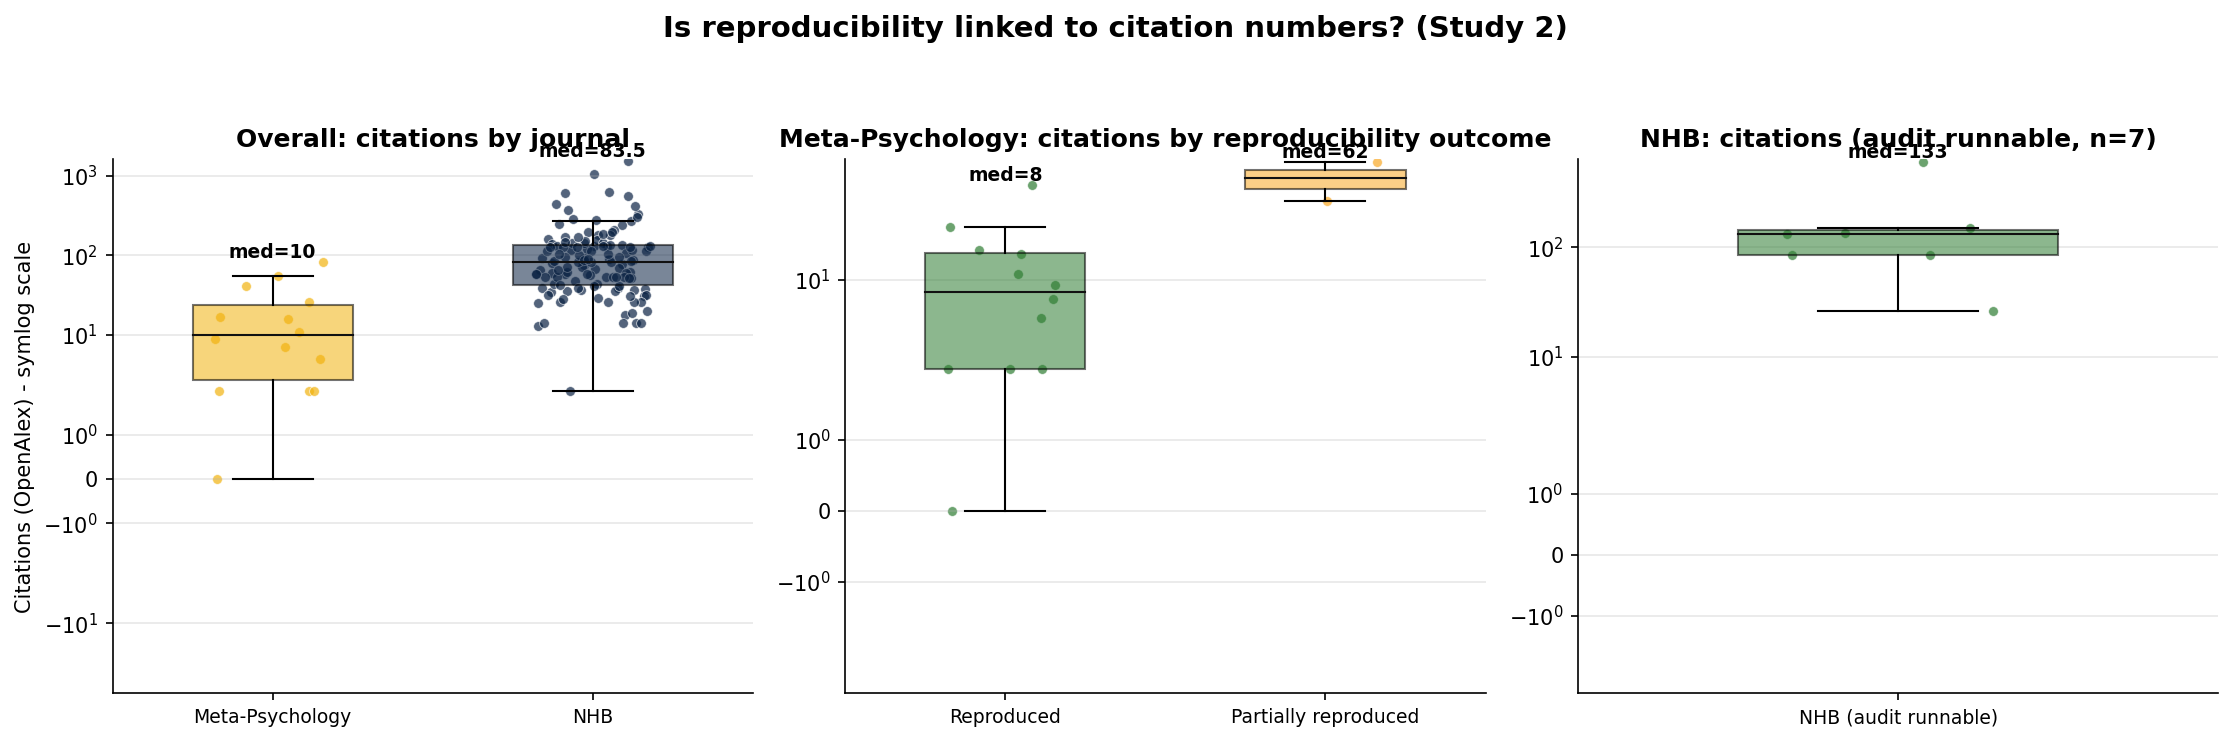
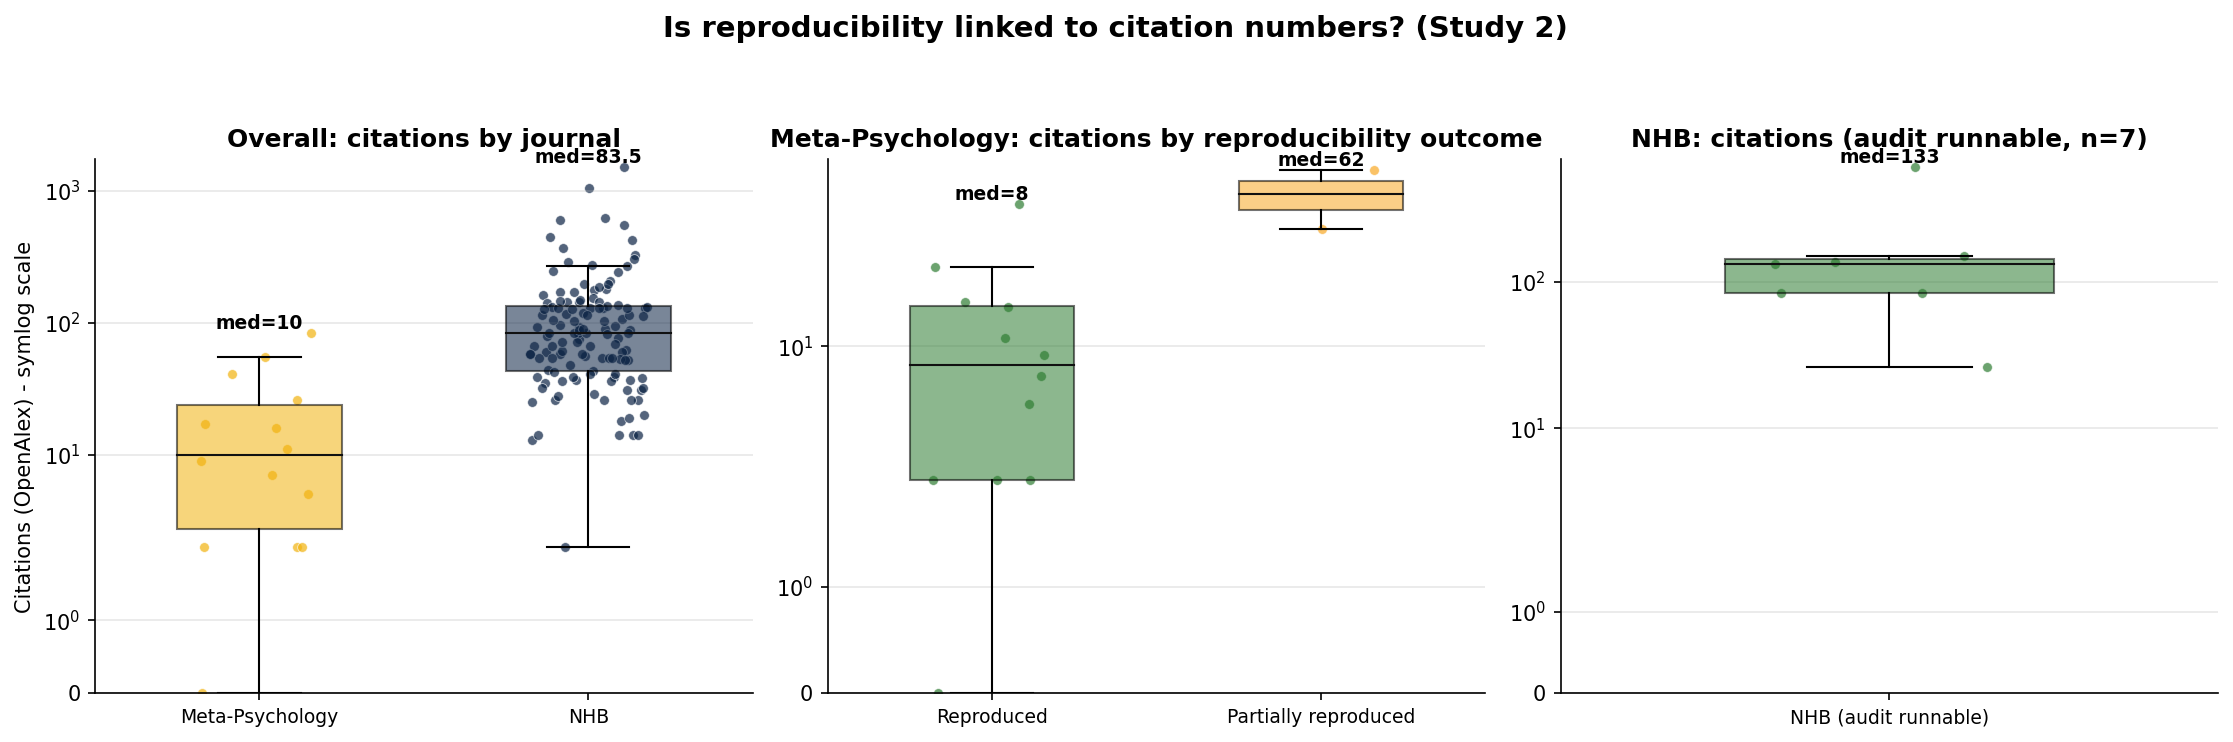
Fig5: y-axis from 0 with headroom, drop no-availability group, fix median/title overlap; Fig2: single tall stacked NHB columns with y-ticks every 10; update Fig2 caption

diff --git a/MetaPsych_vs_NHB_Reproducibility_Comparison_APA7.html b/MetaPsych_vs_NHB_Reproducibility_Comparison_APA7.html
@@ -194,7 +194,7 @@ body { position:relative; }
 <h3>Open data availability</h3>
 <p>Among 14 audited <i>Meta-Psychology</i> studies, 6 carried explicit open-data badges; the remaining studies were simulations for which raw data are not applicable. Among the 128 audited <i>NHB</i> articles, 72 (56%) exposed a direct, machine-downloadable data/code link, 55 (43%) supplied an availability statement without a direct link, and 1 gave no statement.</p>
 <div class="figure"><img src="fig2_open_data.png" alt="Open data availability">
-<p class="figcap"><b>Figure 2.</b> Open data availability by journal, shown as the share (percentage) of audited studies within each journal, with the exact count in parentheses at each bar tip &mdash; this makes the two journals comparable despite the small <i>Meta-Psychology</i> corpus. Note that several <i>Meta-Psychology</i> studies are simulations in which raw data are not applicable, so no-data should not be read as a transparency failure.</p></div>
+<p class="figcap"><b>Figure 2.</b> Open data availability by journal, with one square per study stacked by category (for <i>Meta-Psychology</i>: open data present vs not applicable; for <i>NHB</i>: direct data/code link, statement only, or no availability). Note that several <i>Meta-Psychology</i> studies are simulations in which raw data are not applicable, so no-data should not be read as a transparency failure.</p></div>
 
 <h3>For how many did the check work, and how many had issues or big problems?</h3>
 <p>For <i>Meta-Psychology</i>, where a genuine computational reproduction was possible, 12 studies reproduced near-exactly and 2 reproduced only partially; 0 did not reproduce and 0 hit technical blockers. These are genuinely re-ran analyses, so &ldquo;reproduced&rdquo; is a strong certification; for these <i>Meta-Psychology</i> studies the data and code were available, so any failure falls under the &ldquo;different numbers come out&rdquo; category (partially reproduced or not reproduced) or a technical blocker, rather than &ldquo;data could not be shared.&rdquo; For <i>NHB</i>, the audit established data/code availability rather than re-execution: only the 79 articles with a direct, machine-downloadable link could in principle be re-run, whereas 55 offered only a statement and 1 no availability at all &mdash; these 49 &ldquo;data could not be shared&rdquo; availability barriers could not be re-run (Table&nbsp;1). Figure&nbsp;3 therefore plots, for each journal, only the studies on which the audit could actually be run: for <i>Meta-Psychology</i> all 14 re-executions are shown and split by outcome, and for <i>NHB</i> the 79 runnable studies are shown.</p>

diff --git a/_build_figs_v2.py b/_build_figs_v2.py
@@ -43,7 +43,12 @@ OK="#2e7d32"; PAR="#f9a825"; BAD="#c62828"; TECH="#ef6c00"
 
 # ---- unit-chart helper: one rectangle per study, stacked per category, WITH x/y axes ----
 import matplotlib.patches as mpatches
-def unit_chart(ax, cats, vals, colors, square=0.7, per_col_max=14, gap=0.12):
+def _nice_step(v):
+    for s in (1,2,5,10,20,25,50,100):
+        if v/s <= 8:
+            return s
+    return 10
+def unit_chart(ax, cats, vals, colors, square=0.8, per_col_max=14, gap=0.12):
     # each category = a column of one rectangle per study, counted on the y-axis
     for k, n in enumerate(vals):
         n = int(n)
@@ -55,11 +60,13 @@ def unit_chart(ax, cats, vals, colors, square=0.7, per_col_max=14, gap=0.12):
             rect = mpatches.Rectangle((xx, yy), square, square, facecolor=colors[k],
                                       edgecolor="white", linewidth=0.6, alpha=0.92)
             ax.add_patch(rect)
-    maxrows = max((int(v)//per_col_max + (1 if int(v)%per_col_max else 0))*1 for v in vals) if vals else 1
+    maxrows = max((int(v)//per_col_max + (1 if int(v)%per_col_max else 0)) for v in vals) if vals else 1
+    top = maxrows*per_col_max
     ax.set_xlim(-0.3, len(cats)+0.3)
-    ax.set_ylim(0, maxrows*per_col_max*(square+gap))
+    ax.set_ylim(0, top*(square+gap)+gap)
     ax.set_xticks(range(len(cats))); ax.set_xticklabels(cats, fontsize=9)
-    ax.set_yticks(np.arange(0, maxrows*per_col_max+1))
+    step = _nice_step(top)
+    ax.set_yticks(np.arange(0, top+1, step))
     ax.set_ylim(0, int(ax.get_ylim()[1])+1)
     ax.set_ylabel("Number of studies", fontsize=10)
     ax.spines[['top','right']].set_visible(False)
@@ -87,20 +94,20 @@ fig.savefig(os.path.join(OUT,"fig1_funnel.png"), dpi=150, bbox_inches="tight"); 
 # ============================================================ Figure 2: open data (unit chart, one rectangle per study)
 mp_od = sum(1 for s in mp_aud if str(s.get("open_data","")).lower() in ("yes","y"))
 mp_od_na = len(mp_aud)-mp_od
-fig, axes = plt.subplots(1,2, figsize=(14,5), gridspec_kw={"width_ratios":[1,1]})
+fig, axes = plt.subplots(1,2, figsize=(13,6.5), gridspec_kw={"width_ratios":[1,1]})
 # meta-psychology
 ax=axes[0]
 cats=["Open\ndata","Data\nN/A"]
 vals=[mp_od, mp_od_na]
 cols=[OK,"#b0bec5"]
-unit_chart(ax, cats, vals, cols)
+unit_chart(ax, cats, vals, cols, per_col_max=40)
 ax.set_title(f"Meta-Psychology open data (n={len(mp_aud)})\nOpen data present: {mp_od} ({round(100*mp_od/len(mp_aud))}%)", fontsize=12, fontweight="bold")
 # nhb
 ax=axes[1]
 cats=["Direct\nlink","Statement\nonly","No\navail."]
 vals=[nhb_p3, nhb_p2, nhb_p1]
 cols=[OK,PAR,BAD]
-unit_chart(ax, cats, vals, cols)
+unit_chart(ax, cats, vals, cols, per_col_max=100)
 ax.set_title(f"Nature Human Behavior data availability (n={len(nhb_ft)})\nDirect: {nhb_p3} ({nhb_p3pct}%) · Stmt: {nhb_p2} ({nhb_p2pct}%) · None: {nhb_p1}", fontsize=12, fontweight="bold")
 # single shared legend
 handles=[mpatches.Patch(facecolor=OK, label=f"Open data / direct link ({mp_od}+{nhb_p3})"),
@@ -109,7 +116,7 @@ handles=[mpatches.Patch(facecolor=OK, label=f"Open data / direct link ({mp_od}+{
          mpatches.Patch(facecolor="#b0bec5", label=f"Data N/A (simulation) ({mp_od_na})")]
 fig.suptitle("Open data availability by journal — each small square is one audited study", fontsize=13, fontweight="bold")
 fig.legend(handles=handles, loc="lower center", ncol=4, frameon=False, fontsize=10)
-fig.tight_layout(rect=[0.02,0.10,1,0.90]); fig.savefig(os.path.join(OUT,"fig2_open_data.png"), dpi=150, bbox_inches="tight"); plt.close(fig)
+fig.tight_layout(rect=[0.02,0.07,1,0.93]); fig.savefig(os.path.join(OUT,"fig2_open_data.png"), dpi=150, bbox_inches="tight"); plt.close(fig)
 
 # ============================================================ Figure 3: outcomes (unit chart, one rectangle per study)
 fig, axes = plt.subplots(1,2, figsize=(14,5.2), gridspec_kw={"width_ratios":[1,1]})
@@ -178,12 +185,19 @@ def box_with_jitter(ax, groups, labels, color_map, ylog=False):
         xs = np.random.default_rng(pos).uniform(pos-0.18, pos+0.18, size=len(grp))
         ax.scatter(xs, grp, s=22, color=color_map.get(labels[pos], "#333"), alpha=0.7, edgecolor="white", linewidth=0.4)
         if grp:
-            ax.annotate(f"med={statistics.median(grp):g}", (pos, np.percentile(grp,100)),
+            # label the median just above the box (not at the very top) so it does not hit the title
+            top = np.percentile(grp, 100)
+            med = statistics.median(grp)
+            ax.annotate(f"med={med:g}", (pos, top),
                         ha="center", va="bottom", fontsize=9, fontweight="bold")
     ax.set_xticks(positions); ax.set_xticklabels(labels, fontsize=9)
     if ylog:
         ax.set_yscale("symlog")
+    ax.set_ylim(bottom=0)
     ax.grid(axis="y", alpha=0.3); ax.spines[['top','right']].set_visible(False)
+    # reserve headroom at the top so median labels stay below the title
+    y0, y1 = ax.get_ylim()
+    ax.set_ylim(0, y1*1.08)
 
 fig, axes = plt.subplots(1,3, figsize=(15,5))
 # Overall: MP vs NHB

diff --git a/_build_final_report.py b/_build_final_report.py
@@ -376,7 +376,7 @@ body { position:relative; }
 <h3>Open data availability</h3>
 <p>Among @MPA@ audited <i>Meta-Psychology</i> studies, @@MPOD@@ carried explicit open-data badges; the remaining studies were simulations for which raw data are not applicable. Among the @NHBFT@ audited <i>NHB</i> articles, @@NHBP3@@ (@@NHBP3PCT@@%) exposed a direct, machine-downloadable data/code link, @@NHBP2@@ (@@NHBP2PCT@@%) supplied an availability statement without a direct link, and @@NHBP1@@ gave no statement.</p>
 <div class="figure"><img src="fig2_open_data.png" alt="Open data availability">
-<p class="figcap"><b>Figure 2.</b> Open data availability by journal, shown as the share (percentage) of audited studies within each journal, with the exact count in parentheses at each bar tip &mdash; this makes the two journals comparable despite the small <i>Meta-Psychology</i> corpus. Note that several <i>Meta-Psychology</i> studies are simulations in which raw data are not applicable, so no-data should not be read as a transparency failure.</p></div>
+<p class="figcap"><b>Figure 2.</b> Open data availability by journal, with one square per study stacked by category (for <i>Meta-Psychology</i>: open data present vs not applicable; for <i>NHB</i>: direct data/code link, statement only, or no availability). Note that several <i>Meta-Psychology</i> studies are simulations in which raw data are not applicable, so no-data should not be read as a transparency failure.</p></div>
 
 <h3>For how many did the check work, and how many had issues or big problems?</h3>
 <p>For <i>Meta-Psychology</i>, where a genuine computational reproduction was possible, @MPOK@ studies reproduced near-exactly and @MPPAR@ reproduced only partially; @MPFAIL@ did not reproduce and @MPTECH@ hit technical blockers. These are genuinely re-ran analyses, so &ldquo;reproduced&rdquo; is a strong certification; for these <i>Meta-Psychology</i> studies the data and code were available, so any failure falls under the &ldquo;different numbers come out&rdquo; category (partially reproduced or not reproduced) or a technical blocker, rather than &ldquo;data could not be shared.&rdquo; For <i>NHB</i>, the audit established data/code availability rather than re-execution: only the @NHBNADIRECT@ articles with a direct, machine-downloadable link could in principle be re-run, whereas @NHBP2@ offered only a statement and @NHBP1@ no availability at all &mdash; these @NHBNA@ &ldquo;data could not be shared&rdquo; availability barriers could not be re-run (Table&nbsp;1). Figure&nbsp;3 therefore plots, for each journal, only the studies on which the audit could actually be run: for <i>Meta-Psychology</i> all @MPA@ re-executions are shown and split by outcome, and for <i>NHB</i> the @NHBNADIRECT@ runnable studies are shown.</p>
